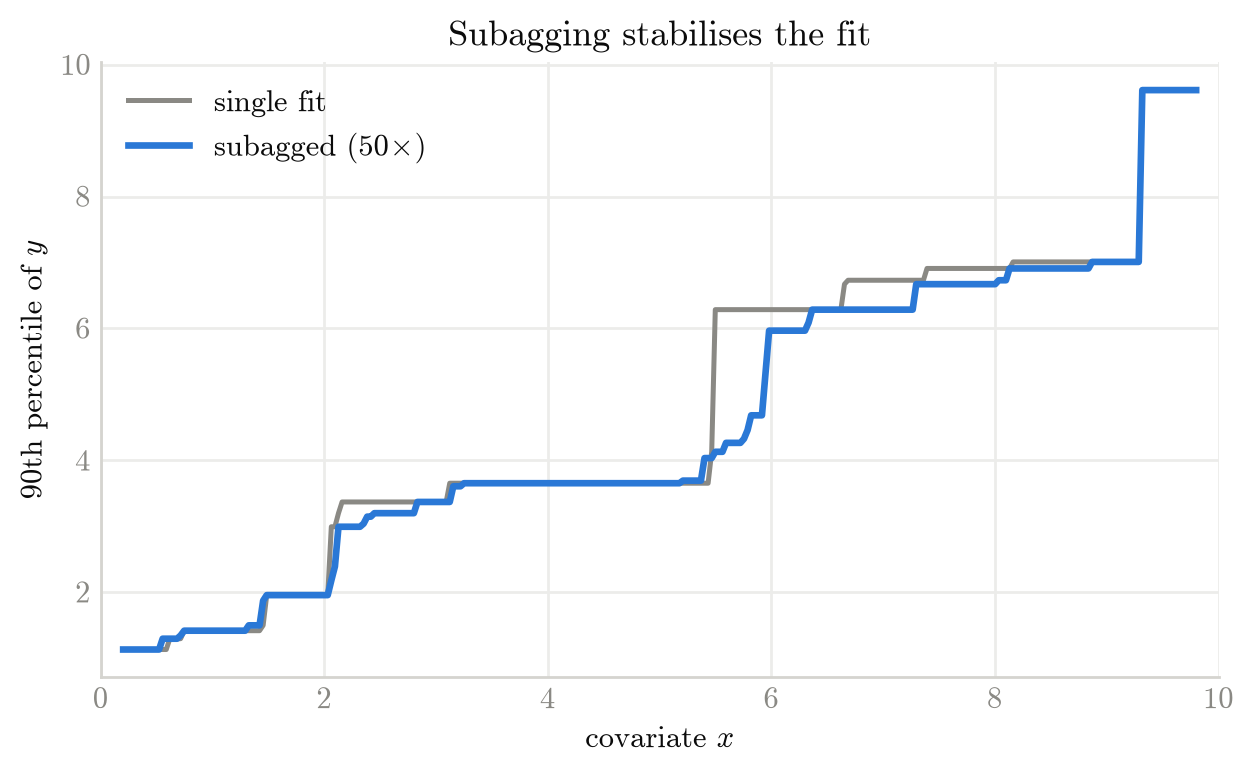
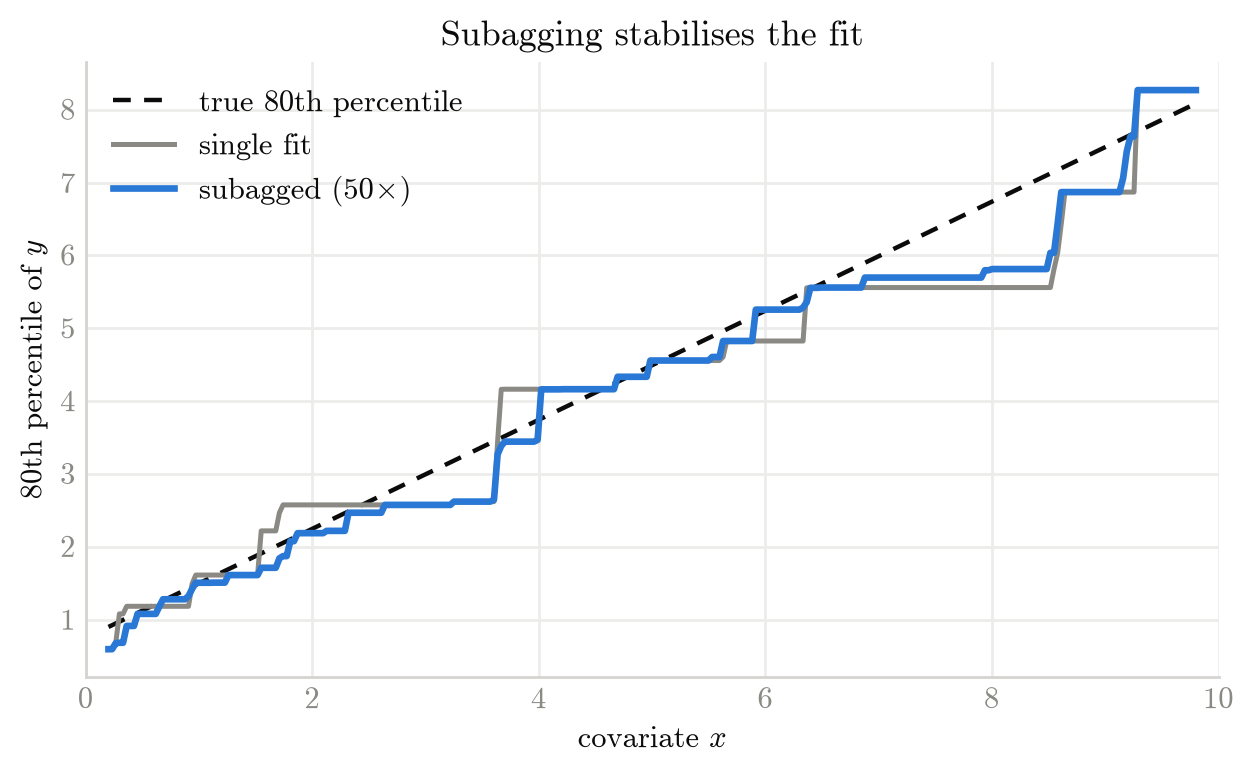
Tweak and tune

diff --git a/doc/make_figures.py b/doc/make_figures.py
@@ -174,7 +174,7 @@ def figure_censoring():
 # ---------------------------------------------------------------------------
 def figure_subagging():
     rng = np.random.default_rng(11)
-    n = 120
+    n = 200
     x = rng.uniform(0, 10, n)
     y = rng.gamma(shape=2.0, scale=(x + 1) / 4)
     raw = IDR(y, x)
@@ -183,14 +183,17 @@ def figure_subagging():
     # A high quantile is estimated from few upper-tail observations, so a single
     # fit is the most jittery here — where subagging's stabilising helps most.
     xs = np.linspace(0.2, 9.8, 300)
+    q80_true = gamma_dist.ppf(0.8, a=2.0, scale=(xs + 1) / 4)
     fig, ax = plt.subplots(figsize=(6.4, 4.0))
-    ax.plot(xs, raw.quantile(xs, 0.9), color=MUTED, lw=1.8,
+    ax.plot(xs, q80_true, color=INK, lw=1.6, ls=(0, (4, 3)),
+            label="true 80th percentile")
+    ax.plot(xs, raw.quantile(xs, 0.8), color=MUTED, lw=1.8,
             label="single fit")
-    ax.plot(xs, bag.quantile(xs, 0.9), color=BLUE, lw=2.4,
+    ax.plot(xs, bag.quantile(xs, 0.8), color=BLUE, lw=2.4,
             label=r"subagged ($50\!\times\!$)")
     ax.set_title("Subagging stabilises the fit")
     ax.set_xlabel(r"covariate $x$")
-    ax.set_ylabel(r"90th percentile of $y$")
+    ax.set_ylabel(r"80th percentile of $y$")
     ax.set_xlim(0, 10)
     ax.legend(loc="upper left")
     tidy(ax)

diff --git a/README.md b/README.md
@@ -68,8 +68,10 @@ censored time as if the event happened right then — biases the estimate, which
 S-IDR corrects.
 
 ```python
-# t = observed time, observed = True if the event was seen (False = right-censored)
-fit = IDR(t, x, observed)
+# y = true event time, c = censoring time; we observe only whichever comes first
+t = np.minimum(y, c)                             # observed time (event or censoring)
+d = y <= c                                       # True if the event was seen (else censored)
+fit = IDR(t, x, d)
 survival = 1 - fit.cdf(6.0)                       # P(event after t | x = 6)
 ```
 
@@ -84,19 +86,22 @@ the cdf may not reach 1.0).</sub></p>
 
 **Subagging** fits IDR on many random subsamples and averages the resulting 
 distributions. Each fit sees only a fraction of the data, so it is far cheaper,
-and the fits are independent, so they run in parallel across cores via `n_jobs`
-— turning one large problem into many small ones. On large datasets a single 
-exact fit can be costly if censoring is present. The averaged estimate is also 
-smoother and more stable than a single fit.
+and the fits are independent, so they run in parallel across cores via `n_jobs`.
+On large datasets a single fit can be more costly than many small fits,
+especially if censoring is present. The averaged estimate is also smoother and
+more stable than a single fit.
 
 ```python
+# Smooth truth: y is gamma with mean and spread rising smoothly with x
+y = rng.gamma(shape=2.0, scale=(x + 1) / 4)
+
 # Average 50 fits, each on a random half of the data, across 4 cores
 fit = IDR(y, x, subsamples=50, subsample_size=0.5, n_jobs=4, seed=1)
 ```
 
 <p align="center"><img src="doc/idr_subagging.png" width="70%" alt="Subagging averages many subsample fits into a stable estimate"></p>
 
-<p align="center"><sub>The single fit's abrupt jumps are averaged into a smoother, more stable estimate.</sub></p>
+<p align="center"><sub>The single fit's abrupt jumps are averaged into a smoother, more stable estimate that tracks the true 80th percentile (dashed).</sub></p>
 
 ## Multivariate covariates & partial orders
 
